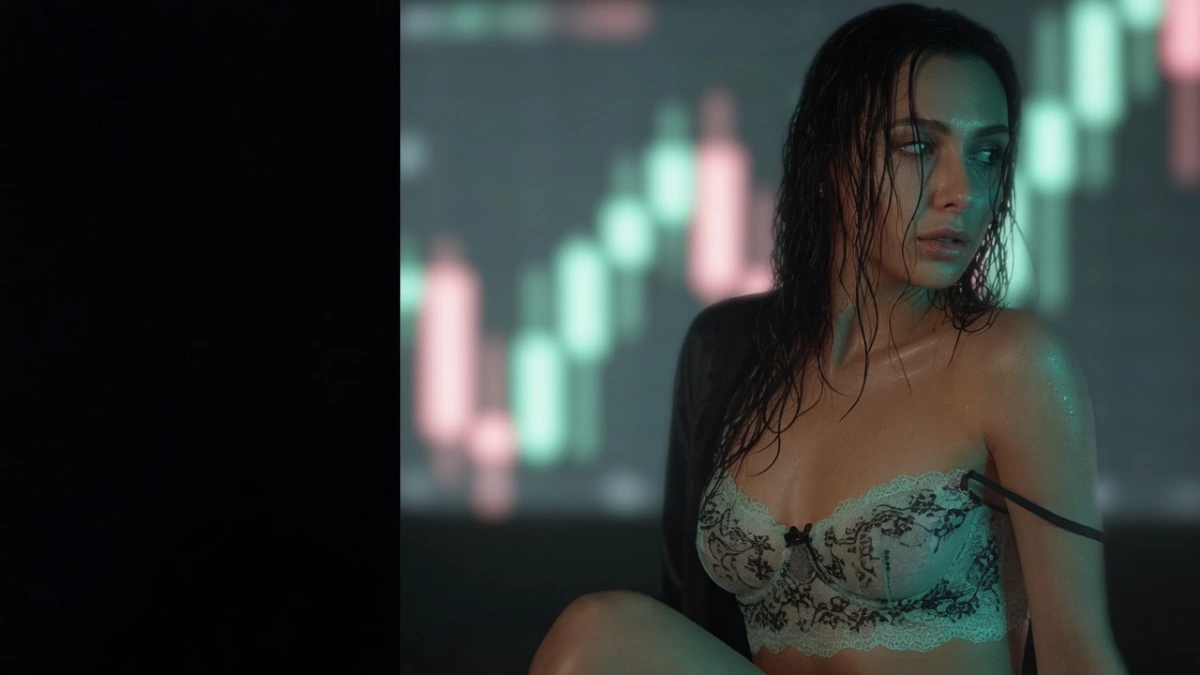
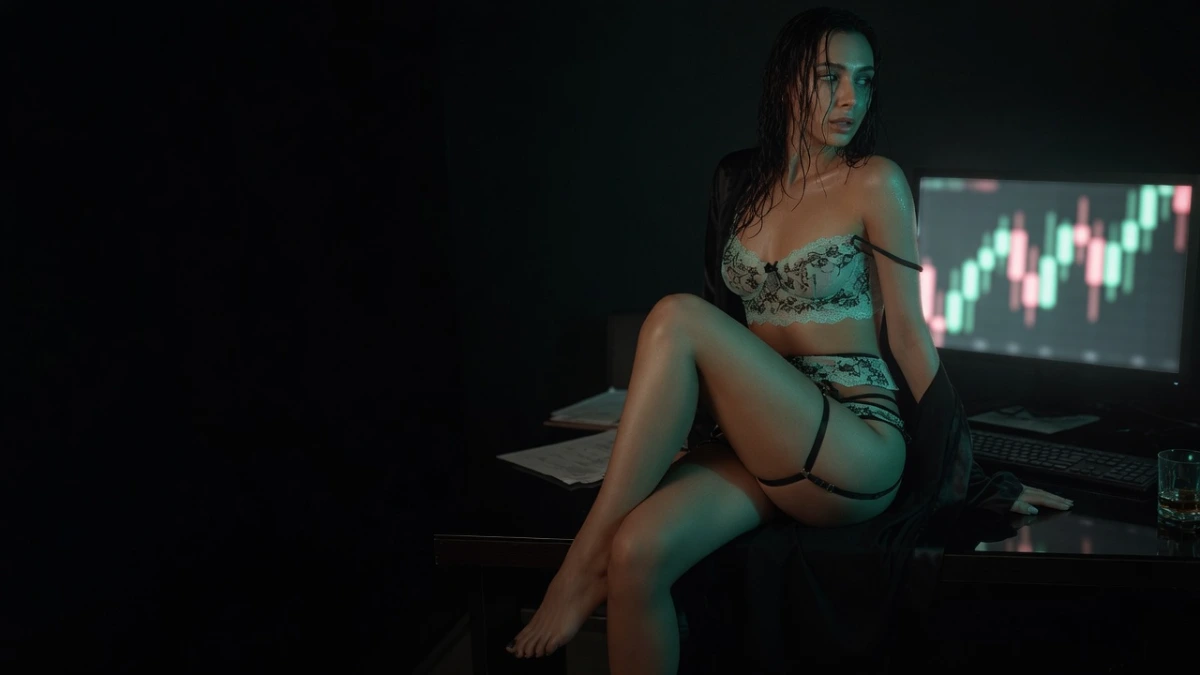
Update DEX configuration and branding

diff --git a/public/config.js b/public/config.js
@@ -35,8 +35,8 @@ window.__RUNTIME_CONFIG__ = {
   "VITE_SEO_THEME_COLOR": "#97FCE4",
   "VITE_SEO_KEYWORDS": "gliquid,goonerliquid,perps",
   "VITE_AVAILABLE_LANGUAGES": "en",
-  "VITE_USE_CUSTOM_PNL_POSTERS": "false",
-  "VITE_CUSTOM_PNL_POSTER_COUNT": "0",
+  "VITE_USE_CUSTOM_PNL_POSTERS": "true",
+  "VITE_CUSTOM_PNL_POSTER_COUNT": "4",
   "VITE_TRADING_VIEW_COLOR_CONFIG": "{\"chartBG\":\"#04060C\",\"upColor\":\"#97FCE4\",\"downColor\":\"#ED7088\",\"pnlUpColor\":\"#97FCE4\",\"pnlDownColor\":\"#ED7088\",\"pnlZeroColor\":\"#9AA3A4\",\"textColor\":\"#F6FEFD\",\"qtyTextColor\":\"#F6FEFD\",\"volumeUpColor\":\"#50D2C1\",\"volumeDownColor\":\"#ED7088\",\"closeIconColor\":\"#9AA3A4\"}",
   "VITE_ORDERLY_THEME_CONFIG": "[{\"id\":\"00000000-0000-4000-8000-0000000000aa\",\"displayName\":\"gliquid\",\"mode\":\"dark\",\"cssVars\":{\"--oui-color-fill\":\"15 26 31\",\"--oui-color-line\":\"255 255 255\",\"--oui-color-link\":\"151 252 228\",\"--oui-color-base-1\":\"58 80 82\",\"--oui-color-base-2\":\"48 68 70\",\"--oui-color-base-3\":\"39 58 60\",\"--oui-color-base-4\":\"31 48 51\",\"--oui-color-base-5\":\"24 40 43\",\"--oui-color-base-6\":\"18 32 36\",\"--oui-color-base-7\":\"15 26 31\",\"--oui-color-base-8\":\"10 18 22\",\"--oui-color-base-9\":\"7 12 16\",\"--oui-color-danger\":\"237 112 136\",\"--oui-color-base-10\":\"4 6 12\",\"--oui-color-primary\":\"151 252 228\",\"--oui-color-success\":\"80 210 193\",\"--oui-color-warning\":\"255 209 70\",\"--oui-color-tertiary\":\"176 197 196\",\"--oui-color-secondary\":\"246 254 253\",\"--oui-color-link-light\":\"166 255 232\",\"--oui-color-quaternary\":\"154 163 164\",\"--oui-color-base-static\":\"246 254 253\",\"--oui-color-fill-active\":\"39 48 53\",\"--oui-color-danger-light\":\"245 167 181\",\"--oui-color-trading-loss\":\"237 112 136\",\"--oui-gradient-brand-end\":\"80 210 193\",\"--oui-color-danger-darken\":\"217 72 100\",\"--oui-color-primary-light\":\"166 255 232\",\"--oui-color-success-light\":\"151 252 228\",\"--oui-color-warning-light\":\"255 229 133\",\"--oui-gradient-danger-end\":\"237 112 136\",\"--oui-color-primary-darken\":\"80 210 193\",\"--oui-color-success-darken\":\"51 153 140\",\"--oui-color-trading-profit\":\"151 252 228\",\"--oui-color-warning-darken\":\"255 152 0\",\"--oui-gradient-brand-angle\":\"17.44deg\",\"--oui-gradient-brand-start\":\"219 251 246\",\"--oui-gradient-neutral-end\":\"15 26 31\",\"--oui-gradient-primary-end\":\"151 252 228\",\"--oui-gradient-success-end\":\"80 210 193\",\"--oui-gradient-warning-end\":\"255 209 70\",\"--oui-color-base-foreground\":\"246 254 253\",\"--oui-color-danger-contrast\":\"255 255 255\",\"--oui-gradient-danger-start\":\"153 24 76\",\"--oui-color-primary-contrast\":\"4 6 12\",\"--oui-color-success-contrast\":\"4 6 12\",\"--oui-color-warning-contrast\":\"4 6 12\",\"--oui-gradient-neutral-start\":\"4 6 12\",\"--oui-gradient-primary-start\":\"2 35 30\",\"--oui-gradient-secondary-end\":\"80 210 193\",\"--oui-gradient-success-start\":\"1 83 68\",\"--oui-gradient-warning-start\":\"152 58 8\",\"--oui-gradient-brand-stop-end\":\"86.5%\",\"--oui-gradient-secondary-start\":\"7 39 35\",\"--oui-gradient-brand-stop-start\":\"6.62%\",\"--oui-color-base-static-contrast\":\"4 6 12\",\"--oui-color-trading-loss-contrast\":\"255 255 255\",\"--oui-color-trading-profit-contrast\":\"4 6 12\"},\"tradingViewColorConfig\":{\"chartBG\":\"#04060C\",\"upColor\":\"#97FCE4\",\"downColor\":\"#ED7088\",\"pnlUpColor\":\"#97FCE4\",\"pnlDownColor\":\"#ED7088\",\"pnlZeroColor\":\"#9AA3A4\",\"textColor\":\"#F6FEFD\",\"qtyTextColor\":\"#F6FEFD\",\"volumeUpColor\":\"#50D2C1\",\"volumeDownColor\":\"#ED7088\",\"closeIconColor\":\"#9AA3A4\"},\"isDefault\":true}]",
   "VITE_ANALYTICS_SCRIPT": "{}",
